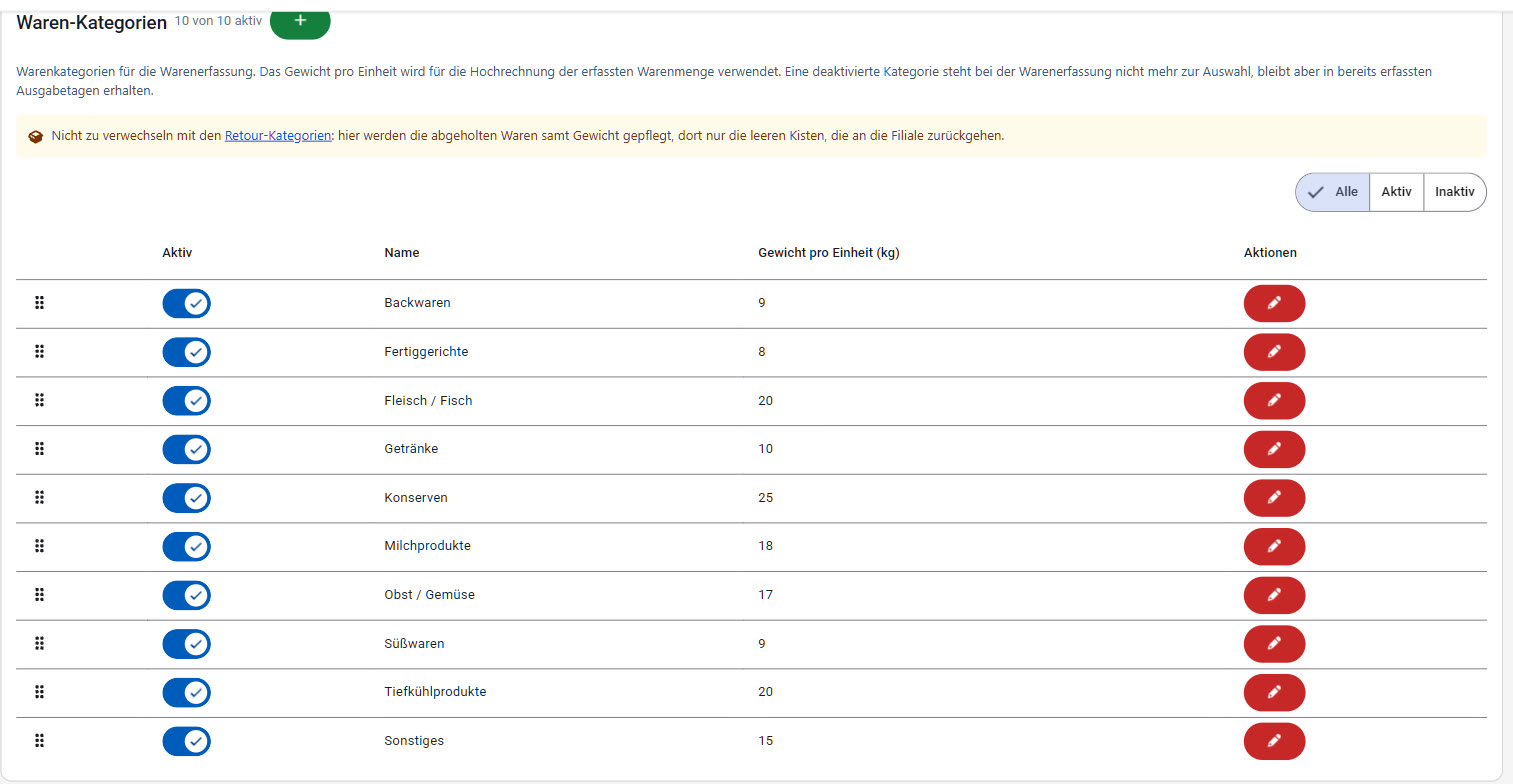
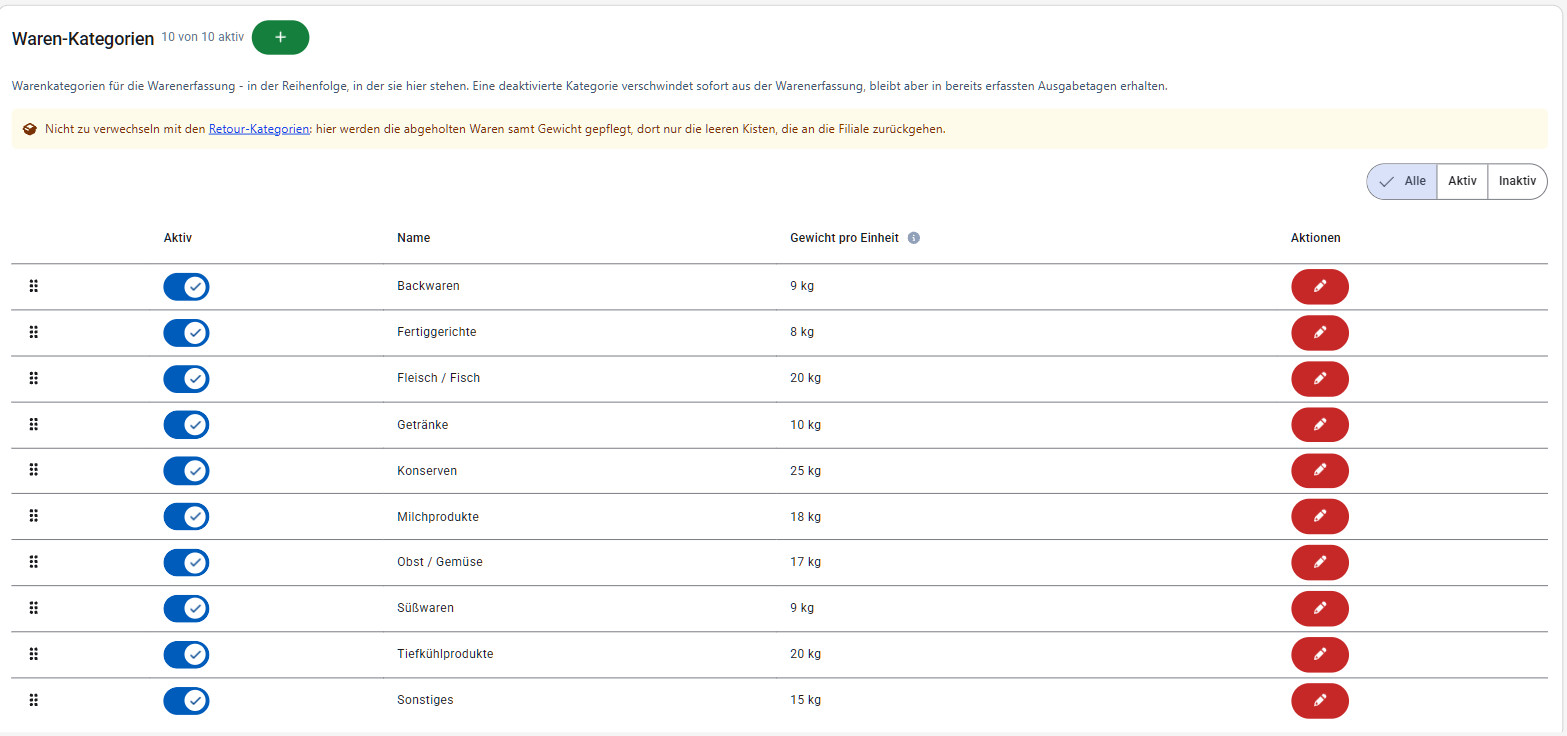
feat(settings): say what the food categories drive and show the weight with its unit
The screen showed a bare number per category and said nothing about what
maintaining it changes. It now says that the list order is the order the
Warenerfassung offers and that deactivating removes a category from it at once,
renders every weight as "9 kg" (and names the categories that have none, which
count as 0 kg), and explains at the weight column that a changed weight applies
from the next recording on. Enter/Esc are spelled out under the edited field and
in the save/cancel tooltips, as on the return categories screen.

The weight explanation sits in an info tooltip rather than a third intro
sentence: on a phone every extra line pushes the list itself below the fold,
which the e2e card-list case catches.

Closes #3235

diff --git a/frontend/src/main/webapp/src/app/modules/settings/views/food-categories/settings-food-categories.component.html b/frontend/src/main/webapp/src/app/modules/settings/views/food-categories/settings-food-categories.component.html
@@ -13,10 +13,12 @@
     </mat-card-title>
   </mat-card-header>
   <mat-card-content>
+    <!-- What the weight does is explained at the column itself rather than here: on a phone every
+         extra line of intro pushes the list itself below the fold. -->
     <p class="mb-4 text-sm text-slate-600">
-      Warenkategorien für die Warenerfassung. Das Gewicht pro Einheit wird für die Hochrechnung der
-      erfassten Warenmenge verwendet. Eine deaktivierte Kategorie steht bei der Warenerfassung nicht
-      mehr zur Auswahl, bleibt aber in bereits erfassten Ausgabetagen erhalten.
+      Warenkategorien für die Warenerfassung - in der Reihenfolge, in der sie hier stehen. Eine
+      deaktivierte Kategorie verschwindet sofort aus der Warenerfassung, bleibt aber in bereits
+      erfassten Ausgabetagen erhalten.
     </p>
 
     <p class="mb-4 flex gap-2 rounded-md bg-amber-50 p-3 text-sm text-amber-900"
@@ -67,6 +69,7 @@
               <input #nameInput matInput [formControl]="nameControl" [attr.testid]="'foodCategoryNameInput-' + i"
                      aria-label="Name"
                      (keydown.enter)="saveEdit(category)" (keydown.escape)="cancelEdit()"/>
+              <mat-hint>Enter speichert, Esc bricht ab</mat-hint>
             </mat-form-field>
           } @else {
             {{ category.name }}
@@ -75,18 +78,25 @@
       </ng-container>
 
       <ng-container matColumnDef="weightPerUnit">
-        <th mat-header-cell *matHeaderCellDef class="px-6 py-2 text-left">Gewicht pro Einheit (kg)</th>
+        <th mat-header-cell *matHeaderCellDef class="px-6 py-2 text-left">
+          Gewicht pro Einheit
+          <tafel-info-tooltip [testId]="'food-categories-weight-info'" [text]="weightExplanation"/>
+        </th>
         <td mat-cell *matCellDef="let category; let i = index">
           @if (editingId() === category.id) {
             <mat-form-field subscriptSizing="dynamic">
               <input matInput type="number" [formControl]="weightPerUnitControl"
                      [attr.testid]="'foodCategoryWeightPerUnitInput-' + i"
-                     aria-label="Gewicht pro Einheit (kg)"
+                     aria-label="Gewicht pro Einheit in kg"
                      (keydown.enter)="saveEdit(category)" (keydown.escape)="cancelEdit()"/>
               <span matTextSuffix>&nbsp;kg</span>
             </mat-form-field>
+          } @else if (category.weightPerUnit !== null) {
+            <span [attr.testid]="'foodCategoryWeightPerUnit-' + i">{{ category.weightPerUnit | number: '1.0-3' }}&nbsp;kg</span>
           } @else {
-            {{ category.weightPerUnit }}
+            <span class="text-amber-700" [attr.testid]="'foodCategoryWeightPerUnit-' + i">
+              kein Gewicht - zählt mit 0 kg
+            </span>
           }
         </td>
       </ng-container>
@@ -95,10 +105,10 @@
         <th mat-header-cell *matHeaderCellDef class="px-6 py-2 text-left">Aktionen</th>
         <td mat-cell *matCellDef="let category; let i = index">
           @if (editingId() === category.id) {
-            <button matButton="filled" [attr.testid]="'saveFoodCategoryButton-' + i" matTooltip="Änderungen speichern" (click)="saveEdit(category)" [attr.aria-label]="'Änderungen an Kategorie ' + category.name + ' speichern'">
+            <button matButton="filled" [attr.testid]="'saveFoodCategoryButton-' + i" matTooltip="Änderungen speichern (Enter)" (click)="saveEdit(category)" [attr.aria-label]="'Änderungen an Kategorie ' + category.name + ' speichern'">
               <fa-icon [icon]="faCheck"></fa-icon>
             </button>
-            <button matButton="outlined" class="ml-2" [attr.testid]="'cancelFoodCategoryButton-' + i" matTooltip="Bearbeiten abbrechen" (click)="cancelEdit()" [attr.aria-label]="'Bearbeiten von Kategorie ' + category.name + ' abbrechen'">
+            <button matButton="outlined" class="ml-2" [attr.testid]="'cancelFoodCategoryButton-' + i" matTooltip="Bearbeiten abbrechen (Esc)" (click)="cancelEdit()" [attr.aria-label]="'Bearbeiten von Kategorie ' + category.name + ' abbrechen'">
               <fa-icon [icon]="faXmark"></fa-icon>
             </button>
           } @else {
@@ -135,6 +145,7 @@
                     <mat-label>Name</mat-label>
                     <input #nameInputMobile matInput [formControl]="nameControl" [attr.testid]="'foodCategoryNameInputMobile-' + i"
                            (keydown.enter)="saveEdit(category)" (keydown.escape)="cancelEdit()"/>
+                    <mat-hint>Enter speichert, Esc bricht ab</mat-hint>
                   </mat-form-field>
                 } @else {
                   <span>{{ category.name }}</span>
@@ -143,19 +154,26 @@
             </mat-card-header>
             <mat-card-content>
               <div class="grid grid-cols-2 gap-2 items-center">
-                <div class="font-bold">Gewicht pro Einheit (kg):</div>
+                <div class="font-bold">
+                  Gewicht pro Einheit:
+                  <tafel-info-tooltip [testId]="'food-categories-weight-info-mobile-' + i" [text]="weightExplanation"/>
+                </div>
                 <div>
                   @if (editingId() === category.id) {
                     <mat-form-field subscriptSizing="dynamic">
-                      <!-- the card's own "Gewicht pro Einheit (kg):" text sits in a sibling cell and names nothing -->
+                      <!-- the card's own "Gewicht pro Einheit:" text sits in a sibling cell and names nothing -->
                       <input matInput type="number" [formControl]="weightPerUnitControl"
                              [attr.testid]="'foodCategoryWeightPerUnitInputMobile-' + i"
-                             aria-label="Gewicht pro Einheit (kg)"
+                             aria-label="Gewicht pro Einheit in kg"
                              (keydown.enter)="saveEdit(category)" (keydown.escape)="cancelEdit()"/>
                       <span matTextSuffix>&nbsp;kg</span>
                     </mat-form-field>
+                  } @else if (category.weightPerUnit !== null) {
+                    <span [attr.testid]="'foodCategoryWeightPerUnitMobile-' + i">{{ category.weightPerUnit | number: '1.0-3' }}&nbsp;kg</span>
                   } @else {
-                    {{ category.weightPerUnit }}
+                    <span class="text-amber-700" [attr.testid]="'foodCategoryWeightPerUnitMobile-' + i">
+                      kein Gewicht - zählt mit 0 kg
+                    </span>
                   }
                 </div>
               </div>
@@ -165,10 +183,10 @@
                                     [testId]="'food-categories-enabled-toggle-mobile-' + i"
                                     (enabledChange)="toggleFoodCategoryVisibility(category, $event)"/>
               @if (editingId() === category.id) {
-                <button matButton="filled" [attr.testid]="'saveFoodCategoryButtonMobile-' + i" matTooltip="Änderungen speichern" (click)="saveEdit(category)" [attr.aria-label]="'Änderungen an Kategorie ' + category.name + ' speichern'">
+                <button matButton="filled" [attr.testid]="'saveFoodCategoryButtonMobile-' + i" matTooltip="Änderungen speichern (Enter)" (click)="saveEdit(category)" [attr.aria-label]="'Änderungen an Kategorie ' + category.name + ' speichern'">
                   <fa-icon [icon]="faCheck"></fa-icon>
                 </button>
-                <button matButton="outlined" [attr.testid]="'cancelFoodCategoryButtonMobile-' + i" matTooltip="Bearbeiten abbrechen" (click)="cancelEdit()" [attr.aria-label]="'Bearbeiten von Kategorie ' + category.name + ' abbrechen'">
+                <button matButton="outlined" [attr.testid]="'cancelFoodCategoryButtonMobile-' + i" matTooltip="Bearbeiten abbrechen (Esc)" (click)="cancelEdit()" [attr.aria-label]="'Bearbeiten von Kategorie ' + category.name + ' abbrechen'">
                   <fa-icon [icon]="faXmark"></fa-icon>
                 </button>
               } @else {

diff --git a/frontend/src/main/webapp/src/app/modules/settings/views/food-categories/settings-food-categories.component.ts b/frontend/src/main/webapp/src/app/modules/settings/views/food-categories/settings-food-categories.component.ts
@@ -1,4 +1,5 @@
 import {Component, computed, effect, ElementRef, inject, signal, viewChild} from '@angular/core';
+import {DecimalPipe} from '@angular/common';
 import {MatDialog} from '@angular/material/dialog';
 import {FoodCategoryCreateDialogComponent} from './dialogs/food-category-create-dialog.component';
 import {FormControl, ReactiveFormsModule} from '@angular/forms';
@@ -41,6 +42,9 @@ import {
 import {
   TafelEnabledToggleComponent
 } from '../../../../common/components/tafel-enabled-toggle/tafel-enabled-toggle.component';
+import {
+  TafelInfoTooltipComponent
+} from '../../../../common/components/tafel-info-tooltip/tafel-info-tooltip.component';
 
 @Component({
   selector: 'tafel-settings-food-categories',
@@ -73,7 +77,9 @@ import {
     MatTooltipModule,
     TafelEnabledFilterComponent,
     TafelEnabledToggleComponent,
-    RouterLink
+    TafelInfoTooltipComponent,
+    RouterLink,
+    DecimalPipe
   ]
 })
 export class SettingsFoodCategoriesComponent {
@@ -97,6 +103,16 @@ export class SettingsFoodCategoriesComponent {
   );
   protected readonly enabledCount = computed(() => this._foodCategories().filter(category => category.enabled).length);
   protected readonly totalCount = computed(() => this._foodCategories().length);
+
+  /**
+   * Shown at the weight column of both layouts: the number turns recorded units into the kilograms
+   * every warehouse statistic is built from, and a food collection item keeps the weight it was
+   * recorded with - so an edit here never rewrites a distribution that is already closed.
+   */
+  protected readonly weightExplanation =
+    'Rechnet die erfassten Einheiten in Kilogramm um und bestimmt damit die Warenmenge jeder ' +
+    'Statistik. Eine Änderung wirkt ab der nächsten Erfassung - bereits erfasste Mengen behalten ' +
+    'das Gewicht, mit dem sie erfasst wurden.';
 
   protected editingId = signal<number | null>(null);
   protected nameControl = new FormControl<string>('', {nonNullable: true});

diff --git a/frontend/src/main/webapp/src/app/modules/settings/views/food-categories/settings-food-categories.component.spec.ts b/frontend/src/main/webapp/src/app/modules/settings/views/food-categories/settings-food-categories.component.spec.ts
@@ -153,6 +153,24 @@ describe('SettingsFoodCategoriesComponent', () => {
     expect(foodCategoriesApiMock.getAllFoodCategories).toHaveBeenCalledTimes(2);
   });
 
+  // The number scales every warehouse statistic, so a bare figure would be one unit mix-up away
+  // from a wrong report - and a category without a weight contributes 0 kg without saying so.
+  it('renders the weight with its unit and flags a category that has none', () => {
+    const withoutWeight: FoodCategory = {id: 3, name: 'Konserven', weightPerUnit: null, sortOrder: 3, enabled: true};
+    foodCategoriesApiMock.getAllFoodCategories =
+      vi.fn(() => of<FoodCategory[]>([testCategory, withoutWeight]));
+
+    const fixture = TestBed.createComponent(SettingsFoodCategoriesComponent);
+    fixture.detectChanges();
+
+    const weightCell = (index: number) => fixture.nativeElement
+      .querySelector(`[testid="foodCategoryWeightPerUnit-${index}"]`)
+      .textContent.replace(/\s+/g, ' ').trim();
+
+    expect(weightCell(0)).toBe('9 kg');
+    expect(weightCell(1)).toBe('kein Gewicht - zählt mit 0 kg');
+  });
+
   it('shows only the categories matching the status filter and counts the active ones', () => {
     const disabledCategory: FoodCategory = {id: 3, name: 'Konserven', weightPerUnit: 5, sortOrder: 3, enabled: false};
     foodCategoriesApiMock.getAllFoodCategories =

diff --git a/frontend/src/main/webapp/cypress/e2e/settings-food-categories.cy.ts b/frontend/src/main/webapp/cypress/e2e/settings-food-categories.cy.ts
@@ -12,6 +12,26 @@ describe('Settings - Food Categories', () => {
     cy.byTestId('food-categories-row-0').should('contain.text', 'Backwaren');
   });
 
+  it('names what the categories drive', () => {
+    cy.byTestId('food-categories-summary').should('contain.text', 'aktiv');
+    cy.contains('in der Reihenfolge, in der sie hier stehen').should('be.visible');
+    cy.contains('verschwindet sofort aus der Warenerfassung').should('be.visible');
+  });
+
+  it('shows the weight with its unit and explains what it drives', () => {
+    cy.get('[testid="food-categories-table"] [testid="foodCategoryWeightPerUnit-0"]')
+      .should('contain.text', 'kg');
+    cy.byTestId('food-categories-weight-info')
+      .should('have.attr', 'aria-label')
+      .and('contain', 'Warenmenge jeder Statistik');
+  });
+
+  it('says how the inline edit is confirmed and discarded', () => {
+    cy.byTestId('editFoodCategoryButton-0').click();
+
+    cy.contains('Enter speichert, Esc bricht ab').should('be.visible');
+  });
+
   it('links to the return categories screen so a mix-up is caught before editing', () => {
     cy.byTestId('food-categories-distinction').should('contain.text', 'Retour-Kategorien');
     cy.byTestId('food-categories-distinction').find('a').click();

diff --git a/frontend/src/main/webapp/src/app/modules/settings/views/food-categories/dialogs/food-category-create-dialog.component.ts b/frontend/src/main/webapp/src/app/modules/settings/views/food-categories/dialogs/food-category-create-dialog.component.ts
@@ -26,7 +26,9 @@ export class FoodCategoryCreateDialogComponent {
 
   form = this.fb.group({
     name: ['', [Validators.required]],
-    weightPerUnit: [null as number | null, [Validators.required]],
+    // The backend rejects a negative weight (@PositiveOrZero); caught here so it never becomes a
+    // bare "Erstellen fehlgeschlagen" toast with the dialog's content already gone.
+    weightPerUnit: [null as number | null, [Validators.required, Validators.min(0)]],
     // Not user-editable here - the backend auto-assigns the actual sort order on create,
     // placing new categories last; reordering afterwards happens via drag-and-drop.
     sortOrder: [0],

diff --git a/frontend/src/main/webapp/src/app/modules/settings/views/food-categories/dialogs/food-category-create-dialog.component.html b/frontend/src/main/webapp/src/app/modules/settings/views/food-categories/dialogs/food-category-create-dialog.component.html
@@ -8,8 +8,9 @@
 
       <mat-form-field>
         <mat-label>Gewicht pro Einheit</mat-label>
-        <input matInput type="number" formControlName="weightPerUnit"/>
+        <input matInput type="number" min="0" formControlName="weightPerUnit"/>
         <span matTextSuffix>&nbsp;kg</span>
+        <mat-hint>Rechnet die erfassten Einheiten in Kilogramm um</mat-hint>
       </mat-form-field>
     </form>
   </div>

diff --git a/frontend/src/main/webapp/src/app/modules/settings/README.md b/frontend/src/main/webapp/src/app/modules/settings/README.md
@@ -166,15 +166,28 @@ Differences worth knowing:
   `editingId` signal and swaps that row's cells for a `nameControl`/
   `weightPerUnitControl` pair; `saveEdit()`/`cancelEdit()` exit the mode. A
   `viewChild` + `effect()` auto-focuses the name input whenever it appears —
-  the same focus-on-appear trick is reused in `static-values` below. This
-  replaced an earlier dialog-based editor (commits `907d9cb8`, `80a53516`,
-  `a30b6a36` progressively moved edit inline, dropped the return-item toggle
-  from inline editing, and swapped a manual "Sortierung" number input for
-  drag-and-drop).
-- **Creation still uses a dialog** (`food-category-create-dialog.component.ts`),
-  which does expose `returnItem` (Pfandartikel/deposit-return flag) as a
-  checkbox — inline editing intentionally does not let you touch `returnItem`
-  or `sortOrder` after creation.
+  the same focus-on-appear trick is reused in `static-values` below. Enter saves
+  and Escape cancels, which a `mat-hint` under the name field and the
+  "(Enter)"/"(Esc)" suffixes on the save/cancel tooltips are what make
+  discoverable, same as `food-return-categories`.
+- **Creation uses a dialog** (`food-category-create-dialog.component.ts`), which
+  asks for the name and the weight and nothing else: `sortOrder` is
+  server-assigned (a new category goes last) and changes only by dragging
+  afterwards.
+- **The weight carries its unit wherever it is shown** — `| number: '1.0-3'`
+  plus a `kg` suffix in the cell, a `kg` `matTextSuffix` on both the inline and
+  the dialog input — and a category without a weight says so in its place
+  instead of leaving the cell blank: the backend reads a null `weightPerUnit`
+  as 0 kg (`FoodCollectionItemEntity.calculateWeight`), so such a category
+  contributes nothing to any warehouse statistic.
+- **The screen says what it drives**: the paragraph above the list carries the
+  two facts about the list as a whole — the order here is the category order in
+  the Warenerfassung, and deactivating removes a category from that form at once
+  — while what the weight does is a `tafel-info-tooltip` at the weight column
+  itself (`weightExplanation` on the component, one tooltip per layout). It
+  belongs there rather than in a third sentence of the intro: on a phone every
+  extra line of intro pushes the list below the fold, which the e2e spec's
+  card-list case catches.
 - `enabled`/disabled categories: `toggleFoodCategoryVisibility()` flips
   `enabled` via the same update endpoint used for name/weight edits. A disabled
   category is excluded from `FoodCategoriesApiService.getActiveFoodCategories()`,
